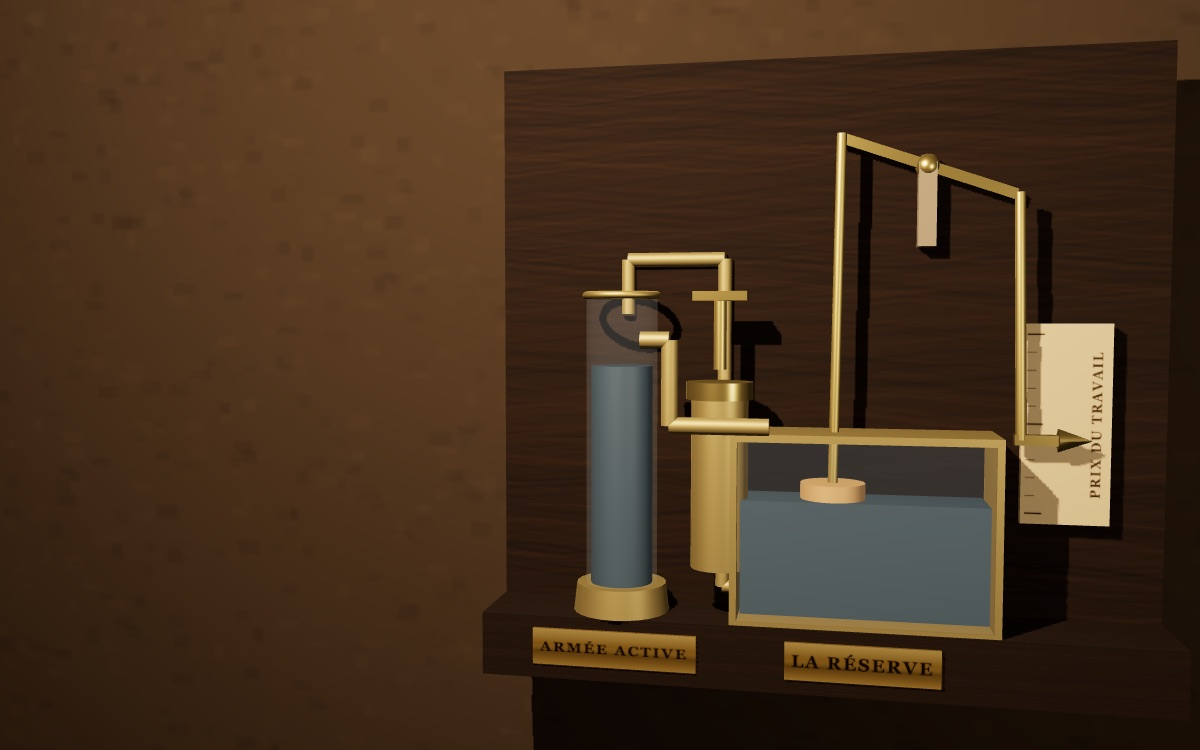
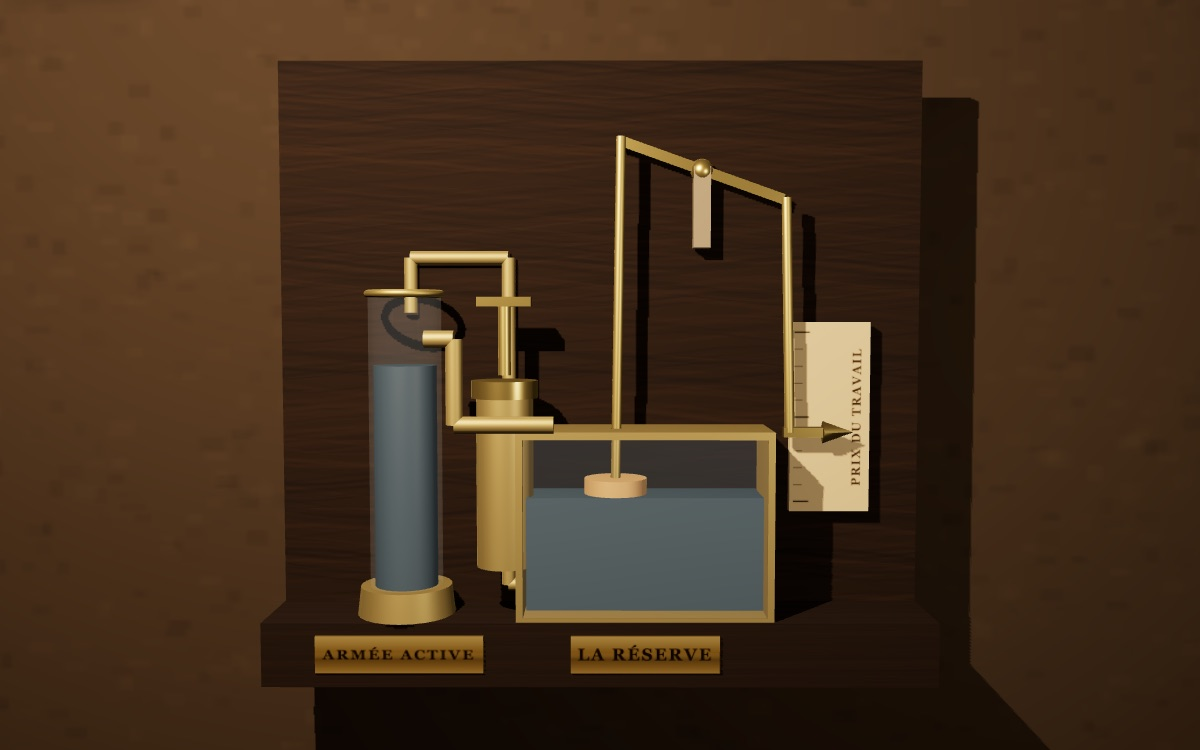
Glossaire : armee-de-reserve réécrite selon la charte, direction artistique « la file et la route »

diff --git a/glossaire/mondes/armee-de-reserve/essai.html b/glossaire/mondes/armee-de-reserve/essai.html
@@ -1,47 +1,87 @@
-<!-- L'ESSAI — le corps de /glossaire/armee-de-reserve.
-     data-s="7" = Septième section de Roy (ch. XXIII–XXV), qui contient le
-     chapitre XXV, « La loi générale de l'accumulation capitaliste ». -->
+<!-- L'ESSAI : le corps de /glossaire/armee-de-reserve.
+     Fragment HTML, assemblé par tools/gen-seo.mjs dans le gabarit des pages
+     de notion. Réécrit en octobre 2026 selon glossaire/mondes/CHARTE.md.
+     data-s="7" = septième section de Roy (ch. XXIII à XXV), qui contient le
+     chapitre XXV, « Loi générale de l'accumulation capitaliste ». Chaque
+     data-q est une phrase RELEVÉE dans le texte que la liseuse sert,
+     apostrophe typographique comprise : ne rien « corriger ». -->
 
 <section class="nt-sec" data-etape="fait" id="fait">
-<h2>Une population qu'on croit de trop</h2>
-<p>Le chômage se présente d'ordinaire sous la forme d'un écart entre deux grandeurs supposées indépendantes&nbsp;: d'un côté un nombre d'hommes, de l'autre une quantité de besogne, et l'on explique le premier par le second ou le second par le premier. Ou bien les bras sont trop nombreux, et c'est la lecture malthusienne, qui rapporte la misère à la fécondité&nbsp;; ou bien la conjoncture est mauvaise, et l'écart n'est qu'un accident du marché qui se résorbera de lui-même. Les deux lectures diffèrent sur presque tout, mais elles s'accordent sur un point décisif&nbsp;: la population ouvrière disponible est une donnée que l'accumulation rencontre.</p>
-<p>C'est cette prémisse commune que le chapitre&nbsp;XXV renverse, et il faut mesurer la portée du renversement avant d'en suivre la démonstration. Si la population disponible n'est pas une donnée mais un produit, alors le chômage cesse d'être une défaillance du mécanisme pour en devenir une pièce&nbsp;; et l'on ne peut plus le traiter comme un dysfonctionnement à corriger sans toucher à ce qui le produit. <q data-s="7" data-q="la classe salariée produit donc elle-même les instruments de sa mise en retraite ou de sa métamorphose en surpopulation relative">la classe salariée produit donc elle-même les instruments de sa mise en retraite ou de sa métamorphose en surpopulation relative</q>, écrit Marx&nbsp;: ce sont les mêmes hommes, et le même travail, qui fabriquent le capital dont la croissance les rend superflus.</p>
-<p>Le nom que reçoit cette population — <i>armée industrielle de réserve</i> — dit déjà l'essentiel. Une réserve n'est pas un excédent perdu&nbsp;: c'est un stock tenu disponible en vue d'un emploi futur, et qui remplit une fonction du seul fait d'exister.</p>
+<h2>Le chômage vient-il d'un excès de bras&nbsp;?</h2>
+<p class="nt-lead">Pour Marx, la population ouvrière disponible est un produit de l'accumulation du capital. Les ouvriers, en faisant grandir le capital, fabriquent eux-mêmes les conditions qui en rendent une partie superflue.</p>
+<p>On explique d'ordinaire le chômage par un écart entre deux grandeurs indépendantes&nbsp;: un nombre d'hommes d'un côté, une quantité de besogne de l'autre. Les uns disent que les hommes sont trop nombreux&nbsp;; c'est la lecture de Malthus, qui rapporte la misère à la fécondité des pauvres. Les autres disent que la conjoncture est mauvaise et que l'écart se résorbera de lui-même. Ces deux explications divergent sur presque tout. Elles partagent pourtant une idée&nbsp;: la population disponible serait une donnée que le capital trouve devant lui.</p>
+<p>Le chapitre&nbsp;XXV du <i>Capital</i> retourne cette idée. Il montre que le capital, en grandissant, se passe d'une part croissante des travailleurs qu'il occupait, et que ce sont ces travailleurs mêmes qui l'ont fait grandir. Marx le dit d'une phrase&nbsp;: <q data-s="7" data-q="la classe salariée produit donc elle-même les instruments de sa mise en retraite ou de sa métamorphose en surpopulation relative">la classe salariée produit donc elle-même les instruments de sa mise en retraite ou de sa métamorphose en surpopulation relative</q>. Le chômage devient alors une pièce du mécanisme. On ne peut plus le traiter comme une panne à réparer sans toucher à ce qui le produit.</p>
+<p>Le nom que Marx donne à cette population, l'<i>armée industrielle de réserve</i>, est choisi avec soin. Une réserve est un stock tenu disponible pour un emploi futur. Elle sert avant même d'être employée, du seul fait qu'elle est là.</p>
 </section>
 
 <section class="nt-sec" data-etape="ou" id="ou">
-<h2>Où Marx l'établit, et pourquoi si tard</h2>
-<p>La notion apparaît au chapitre&nbsp;XXV, dans sa troisième section, tout près de la fin du Livre&nbsp;I. Ce retard n'est pas un effet de composition&nbsp;: il est exigé par la démonstration, et l'ordre de l'exposé est ici une partie de l'argument. Pour établir que l'accumulation produit sa propre surpopulation, il faut disposer de deux acquis que les sections précédentes ont seules pu fournir&nbsp;: la distinction du capital constant et du capital variable, sans laquelle on ne peut pas dire quelle part du capital s'échange contre du travail vivant&nbsp;; et la démonstration, faite au chapitre du machinisme, que le développement de la production capitaliste élève continûment la part des moyens de production sur celle des bras.</p>
-<p>Le chapitre procède donc en trois temps, et chacun corrige le précédent. Il examine d'abord l'accumulation à composition constante&nbsp;: dans cette hypothèse, la demande de travail croît avec le capital, les salaires peuvent monter, et rien de fâcheux ne se produit — sinon que la hausse s'arrête d'elle-même dès qu'elle menace l'accumulation, ce qui suffit à établir que le salaire est une variable dépendante et non le prix d'un rapport de force libre. Il montre ensuite que cette hypothèse est irréelle, la composition du capital s'élevant à mesure qu'il grossit. Il en tire enfin la surpopulation relative.</p>
-<p>La proposition sur laquelle tout repose est d'une simplicité arithmétique, et Marx prend soin de l'énoncer avant d'en tirer quoi que ce soit&nbsp;: <q data-s="7" data-q="La demande de travail absolue qu’occasionne un capital est en raison non de sa grandeur absolue, mais de celle de sa partie variable, qui seule s’échange contre la force ouvrière">la demande de travail absolue qu'occasionne un capital est en raison non de sa grandeur absolue, mais de celle de sa partie variable, qui seule s'échange contre la force ouvrière</q>. Un capital peut donc doubler sans que la demande de bras double&nbsp;; il peut même doubler pendant qu'elle recule.</p>
+<h2>Pourquoi Marx n'en parle-t-il qu'à la fin du Livre&nbsp;I&nbsp;?</h2>
+<p class="nt-lead">Parce que la démonstration a besoin de deux résultats établis plus haut&nbsp;: la distinction du capital constant et du capital variable, et la hausse continue de la part des machines dans le capital.</p>
+<p>La notion apparaît dans la troisième partie du chapitre&nbsp;XXV, tout près de la fin du livre. Pour dire quelle part d'un capital s'échange contre du travail vivant, il faut avoir distingué le capital constant, qui achète les machines et les matières, du capital variable, qui achète la force de travail et paie les salaires. Pour dire que cette part diminue, il faut avoir montré, avec le machinisme, que la production capitaliste emploie de plus en plus de moyens de production par ouvrier. Marx appelle ce rapport la composition du capital.</p>
+<p>Le chapitre avance en trois temps. Il suppose d'abord que la composition ne change pas&nbsp;: la demande de travail croît alors avec le capital, et les salaires peuvent monter. Marx ajoute que cette hausse s'arrête d'elle-même dès qu'elle gêne l'accumulation. Il montre ensuite que l'hypothèse est irréelle, puisque la composition s'élève à mesure que le capital grossit. Il en tire enfin la surpopulation relative.</p>
+<p>Toute la suite repose sur une proposition simple, que Marx énonce en tête de la troisième partie&nbsp;:</p>
+<blockquote data-s="7" data-q="La demande de travail absolue qu’occasionne un capital est en raison non de sa grandeur absolue, mais de celle de sa partie variable, qui seule s’échange contre la force ouvrière"><p>La demande de travail absolue qu’occasionne un capital est en raison non de sa grandeur absolue, mais de celle de sa partie variable, qui seule s’échange contre la force ouvrière.</p></blockquote>
+<p>Pour l'emploi, ce qui compte est la part du capital qui paie des salaires. Un capital peut donc doubler sans que la demande de bras double. Il peut même doubler pendant qu'elle recule.</p>
 </section>
 
 <section class="nt-sec" data-etape="distinction" id="distinction">
-<h2>La distinction qui fait le concept&nbsp;: absolu et relatif</h2>
-<p>Tout le chapitre tient dans un écart entre deux mouvements qu'on confond d'ordinaire. Le capital variable — la part qui achète de la force de travail — <q data-s="7" data-q="Il augmente avec le capital social dont il fait partie, mais il augmente en proportion décroissante">augmente avec le capital social dont il fait partie, mais il augmente en proportion décroissante</q>. En masse, il grandit&nbsp;; en proportion, il diminue. Il s'ensuit que le nombre des ouvriers employés peut croître d'une année sur l'autre pendant que la fraction du travail social absorbée par le capital, elle, décroît — et c'est précisément la situation où une prospérité manifeste s'accompagne d'un chômage qui ne cède pas.</p>
-<p>De là le mot <i>relative</i>, qu'il faut prendre à la lettre sous peine de manquer le concept. La surpopulation n'est pas relative parce qu'elle serait modeste ou passagère&nbsp;; elle l'est parce qu'elle n'existe que rapportée aux besoins de valorisation d'un capital de telle composition. Deux cent mille hommes ne sont pas trop nombreux en eux-mêmes, ni au regard des besoins à satisfaire, ni au regard des terres à cultiver&nbsp;: ils le sont pour un capital qui, dans son état technique présent, n'a pas de quoi les mettre en valeur avec profit. Changez la composition, et les mêmes hommes cessent d'être en trop sans qu'aucun d'eux ait bougé.</p>
-<p>Une seconde distinction se pose alors sur la première, et c'est elle qui donne sa figure au concept&nbsp;: la classe ouvrière ne se divise pas entre ceux qui travaillent et ceux qui n'existent pas pour le capital, mais entre deux parties d'une même armée. Ce qui varie d'un moment à l'autre du cycle, c'est <q data-s="7" data-q="la proportion différente suivant laquelle la classe ouvrière se décompose en armée active et en armée de réserve">la proportion différente suivant laquelle la classe ouvrière se décompose en armée active et en armée de réserve</q>. Le total ne dit rien&nbsp;; c'est le partage qui dit tout.</p>
+<h2>En quel sens la surpopulation est-elle relative&nbsp;?</h2>
+<p class="nt-lead">Elle n'existe que par rapport aux besoins de valorisation d'un capital donné. Les mêmes hommes sont en trop pour un capital qui emploie beaucoup de machines, et ne le seraient pas pour un autre.</p>
+<p>Le capital variable, c'est-à-dire la part qui achète la force de travail, <q data-s="7" data-q="Il augmente avec le capital social dont il fait partie, mais il augmente en proportion décroissante">augmente avec le capital social dont il fait partie, mais il augmente en proportion décroissante</q>. En masse il grandit, en proportion il diminue. Le nombre des ouvriers employés peut donc croître d'une année sur l'autre pendant que la fraction du travail social absorbée par le capital recule. On comprend ainsi qu'une prospérité visible aille de pair avec un chômage qui ne cède pas.</p>
+
+<div class="nt-ex">
+<p class="nt-ex-t">L'exemple de Marx</p>
+<p>Un capitaliste avance mille francs, dont deux cinquièmes, soit quatre cents francs, en salaires. Son capital double et passe à deux mille francs. Mais il a acheté des machines plus puissantes, et la part des salaires tombe à un cinquième. Un cinquième de deux mille francs, cela fait encore quatre cents francs. Le capital a doublé, le fonds des salaires n'a pas bougé, et l'entreprise n'embauche personne.</p>
+<p>Marx pousse le calcul plus loin. Si le rapport entre capital constant et capital variable passe de 1 pour 1 à 2, 3, 5 puis 6 pour 1, la part des salaires tombe à un tiers, un quart, un sixième, un septième du capital. Pour que l'emploi augmente malgré cela, il faut que le capital croisse plus vite que cette part ne décroît. Et la croissance même du capital apporte de nouvelles machines, qui font encore baisser la part des salaires.</p>
+</div>
+
+<p>De là le mot <i>relative</i>. Marx l'explique lui-même&nbsp;: la surpopulation provient de l'accroissement accéléré du capital, qui permet à celui-ci de se passer d'une partie de ses ouvriers. <q data-s="7" data-q="Comme cette surpopulation n’existe que par rapport aux besoins momentanés de l’exploitation capitaliste">Comme cette surpopulation n’existe que par rapport aux besoins momentanés de l’exploitation capitaliste</q>, elle peut grossir et se résorber brusquement. Cent mille hommes sont de trop pour un capital qui, dans son état technique du moment, ne peut pas les mettre en valeur avec profit.</p>
+<p>Une seconde distinction s'ajoute à la première. La classe ouvrière forme une seule armée, divisée en deux corps&nbsp;: ceux qui travaillent et ceux qui attendent. Ce qui varie au cours du temps, c'est <q data-s="7" data-q="la proportion différente suivant laquelle la classe ouvrière se décompose en armée active et en armée de réserve">la proportion différente suivant laquelle la classe ouvrière se décompose en armée active et en armée de réserve</q>. Le nombre total des ouvriers dit peu de chose&nbsp;; c'est le partage entre les deux corps qui décide du sort des salariés.</p>
 </section>
 
 <section class="nt-sec" data-etape="mecanisme" id="mecanisme">
-<h2>Le mécanisme&nbsp;: le levier, et la pression</h2>
-<p>Une fois produite, la surpopulation cesse d'être un résultat pour devenir une condition. Elle rend au capital deux services distincts qu'il importe de ne pas confondre, car le premier est technique et le second disciplinaire.</p>
-<p>Le premier est celui d'un réservoir. Aucune branche ne peut prendre son essor si elle doit attendre que naissent et grandissent les hommes dont elle a besoin&nbsp;; il lui faut les trouver disponibles à l'instant où elle les demande. La réserve les fournit, et Marx souligne que le capital en dispose sans en avoir payé l'entretien&nbsp;: elle <q data-s="7" data-q="Elle forme une armée de réserve industrielle qui appartient au capital d’une manière aussi absolue que s’il l’avait élevée et disciplinée à ses propres frais">appartient au capital d'une manière aussi absolue que s'il l'avait élevée et disciplinée à ses propres frais</q>. C'est en ce sens qu'elle est le levier de l'accumulation&nbsp;: sans elle, les expansions soudaines de la production seraient impossibles.</p>
-<p>Le second service est d'un tout autre ordre, et c'est lui qui touche au salaire. La réserve pèse sur l'armée active par sa seule présence, en fixant l'intensité de la concurrence que les ouvriers se font entre eux&nbsp;: Marx observe que les travailleurs commencent à s'organiser précisément le jour où ils découvrent que cette intensité <q data-s="7" data-q="dépend entièrement de la pression exercée par les surnuméraires">dépend entièrement de la pression exercée par les surnuméraires</q>. Le mécanisme se boucle alors sur lui-même, et c'est sa clôture qui en fait un concept et non une observation&nbsp;: l'excès de travail imposé à la partie occupée grossit la partie désœuvrée, dont l'existence permet en retour d'imposer cet excès.</p>
-<p>La conséquence théorique est considérable, et Marx la formule contre toute l'économie politique de son temps. L'offre et la demande de travail ne sont pas réglées par le mouvement de la population, mais par celui du capital, dont les phases commandent le partage entre les deux armées&nbsp;: <q data-s="7" data-q="ses mouvements d’expansion et de contraction alternatifs correspondant à leur tour aux vicissitudes du cycle industriel">ses mouvements d'expansion et de contraction alternatifs</q> répondent aux vicissitudes du cycle industriel. Le salaire n'est donc pas la variable qui gouverne&nbsp;; il est celle qui enregistre.</p>
+<h2>À quoi la réserve sert-elle au capital&nbsp;?</h2>
+<p class="nt-lead">Elle lui rend deux services. Elle fournit des bras dès que la production s'étend brusquement, et sa seule présence pèse sur ceux qui travaillent.</p>
+<p>Le premier service est celui d'un réservoir. Une branche d'industrie qui veut s'étendre ne peut pas attendre que naissent et grandissent les hommes dont elle aura besoin. Il les lui faut tout de suite, et la réserve les fournit, sans que le capital ait rien payé pour les élever&nbsp;:</p>
+<blockquote data-s="7" data-q="Elle forme une armée de réserve industrielle qui appartient au capital d’une manière aussi absolue que s’il l’avait élevée et disciplinée à ses propres frais"><p>Elle forme une armée de réserve industrielle qui appartient au capital d’une manière aussi absolue que s’il l’avait élevée et disciplinée à ses propres frais. Elle fournit à ses besoins de valorisation flottants, et, indépendamment de l’accroissement naturel de la population, la matière humaine toujours exploitable et toujours disponible.</p></blockquote>
+<p>La réserve devient ainsi le levier de l'accumulation. Marx la rattache au cycle de l'industrie moderne, qui revient alors tous les dix ou onze ans&nbsp;: activité moyenne, production à haute pression, crise, stagnation. Les expansions soudaines de ce cycle seraient impossibles sans une masse d'hommes qu'on peut engager et dégager à volonté.</p>
+<p>Le second service touche au salaire. La réserve fixe l'intensité de la concurrence que les ouvriers se font entre eux. L'excès de travail imposé aux uns grossit le nombre des autres, et le nombre des autres permet d'imposer cet excès. Le mécanisme se referme sur lui-même. Dans la demande comme dans l'offre de travail, Marx retrouve le même acteur&nbsp;: <q data-s="7" data-q="Le capital agit des deux côtés à la fois">le capital agit des deux côtés à la fois</q>. Son accumulation augmente la demande de bras et, en fabriquant des surnuméraires, elle en augmente aussi l'offre. <q data-s="7" data-q="Ses dés sont pipés">Ses dés sont pipés.</q></p>
+
+<div class="nt-ex">
+<p class="nt-ex-t">Un exemple que Marx tire des ouvriers eux-mêmes</p>
+<p>Pendant ce que Roy appelle la disette cotonnière, au temps de la guerre civile américaine, les fabriques anglaises ont renvoyé la plupart de leurs ouvriers, et les autres ne travaillent plus que quatre ou six heures par jour. Quelques fabricants de Bolton veulent pourtant imposer des heures supplémentaires à leurs fileurs adultes. Les fileurs répondent par un pamphlet, que Marx cite&nbsp;: on leur demande douze à treize heures quand des centaines d'entre eux restent sans travail.</p>
+<p>Leur conclusion est arithmétique&nbsp;: <q data-s="7" data-q="Si le travail était distribué d’une manière équitable, il y aurait dans ce district assez de besogne pour que chacun en eût sa part">si le travail était distribué d’une manière équitable, il y aurait dans ce district assez de besogne pour que chacun en eût sa part</q>. Ils demandent qu'on raccourcisse la journée de tous tant que dure la crise. Les fileurs ont vu ce que la théorie formule&nbsp;: l'excès de travail des uns et l'oisiveté forcée des autres sont un seul fait.</p>
+</div>
+
+<p>Marx en tire une conséquence contre l'économie politique de son temps. Ce qui règle l'offre et la demande de travail, c'est le mouvement du capital. Les variations des salaires suivent celles de la surpopulation relative, avec <q data-s="7" data-q="ses mouvements d’expansion et de contraction alternatifs correspondant à leur tour aux vicissitudes du cycle industriel">ses mouvements d’expansion et de contraction alternatifs correspondant à leur tour aux vicissitudes du cycle industriel</q>. Le salaire ne fait qu'enregistrer ce partage. Aussi Marx note-t-il que les travailleurs commencent à s'organiser le jour où ils découvrent que la concurrence entre eux <q data-s="7" data-q="dépend entièrement de la pression exercée par les surnuméraires">dépend entièrement de la pression exercée par les surnuméraires</q>. Ce jour-là, <q data-s="7" data-q="ils s’unissent pour organiser l’entente et l’action commune entre les occupés et les non-occupés">ils s’unissent pour organiser l’entente et l’action commune entre les occupés et les non-occupés</q>.</p>
 </section>
 
 <section class="nt-sec" data-etape="formes" id="formes">
-<h2>Ce que le concept ouvre&nbsp;: les formes, et la loi générale</h2>
-<p>Marx ne s'en tient pas à la notion générale&nbsp;: il en distingue trois formes, et cette typologie est ce qui rend le concept utilisable pour décrire une société réelle. La forme <i>flottante</i> est celle des centres industriels, qui attirent et repoussent alternativement les mêmes hommes au gré des commandes. La forme <i>latente</i> est celle des campagnes, où une population que rien n'emploie pleinement reste retenue sur place et ne se révèle qu'au moment où ses canaux de décharge s'ouvrent. La forme <i>stagnante</i> est celle du travail irrégulier, à domicile ou à la journée&nbsp;: elle appartient encore à l'armée active, mais l'irrégularité de ses occupations en fait <q data-s="7" data-q="un réservoir inépuisable de forces disponibles">un réservoir inépuisable de forces disponibles</q>. Au-dessous se dépose enfin le paupérisme officiel, qui n'est pas une catégorie séparée mais le sédiment des trois autres.</p>
-<p>De cette architecture Marx tire l'énoncé qui referme le chapitre, et dont la forme mérite attention&nbsp;: <q data-s="7" data-q="Mais plus la réserve grossit, comparativement à l’armée active du travail, plus grossit aussi la surpopulation consolidée dont la misère est en raison directe du labeur imposé">plus la réserve grossit, comparativement à l'armée active du travail, plus grossit aussi la surpopulation consolidée dont la misère est en raison directe du labeur imposé</q>. Puis, en une phrase&nbsp;: <q data-s="7" data-q="Voilà la loi générale, absolue, de l’accumulation capitaliste">voilà la loi générale, absolue, de l'accumulation capitaliste</q>.</p>
-<p>Le mot <i>absolue</i> a fait couler beaucoup d'encre, et il vaut la peine de dire ce qu'il signifie ici, faute de quoi la formule passe pour une prophétie. Il ne veut pas dire que la loi produira son effet quoi qu'il arrive&nbsp;: la phrase suivante prend soin d'ajouter que l'action de cette loi, comme de toute autre, est modifiée par des circonstances particulières. Il veut dire que la loi ne comporte pas, dans son concept, de contre-tendance qui lui serait interne — à la différence de la baisse tendancielle du taux de profit, où les forces contraires découlent des mêmes causes que la tendance. Ce qui contrarie celle-ci lui vient du dehors&nbsp;: la législation, l'organisation ouvrière, l'émigration, la conquête de nouveaux débouchés. Autant dire que ce qui s'y oppose est historique et politique, non économique.</p>
+<h2>Sous quelles formes la réserve existe-t-elle&nbsp;?</h2>
+<p class="nt-lead">Marx en distingue trois, flottante, latente et stagnante, et place au-dessous le paupérisme. Il en tire la loi générale de l'accumulation capitaliste.</p>
+<p>La forme <i>flottante</i> est celle des centres industriels, qui attirent et repoussent tour à tour les mêmes hommes au gré des commandes. Elle explique une contradiction apparente&nbsp;: au second semestre de 1866, rapporte Marx, il y avait à Londres <q data-s="7" data-q="plus de cent mille ouvriers en chômage forcé">plus de cent mille ouvriers en chômage forcé</q>, pendant que, faute de bras, des machines s'arrêtaient dans les fabriques du Lancashire. La forme <i>latente</i> est celle des campagnes. Dès que le capital s'empare de l'agriculture, il y emploie moins de monde, et une partie des paysans attend l'occasion de partir pour la ville. On ne mesure son étendue qu'au moment où ses canaux de décharge s'ouvrent.</p>
+<div data-planche="route"></div>
+<p>La forme <i>stagnante</i> appartient encore à l'armée active, mais l'irrégularité de ses occupations en fait <q data-s="7" data-q="un réservoir inépuisable de forces disponibles">un réservoir inépuisable de forces disponibles</q>. C'est le travail à la journée ou à domicile, où le temps de travail atteint son maximum et le salaire son minimum. Au-dessous de ces trois formes se dépose le paupérisme&nbsp;: les ouvriers sans emploi, les enfants des pauvres assistés, ceux que l'âge ou l'accident a mis hors d'usage. Marx le définit d'une image militaire&nbsp;: <q data-s="7" data-q="Le paupérisme est l’hôtel des Invalides de l’armée active du travail et le poids mort de sa réserve">le paupérisme est l’hôtel des Invalides de l’armée active du travail et le poids mort de sa réserve</q>.</p>
+<p>De cet ensemble, Marx tire la formule qui termine son analyse&nbsp;:</p>
+<blockquote data-s="7" data-q="Mais plus la réserve grossit, comparativement à l’armée active du travail, plus grossit aussi la surpopulation consolidée dont la misère est en raison directe du labeur imposé"><p>Mais plus la réserve grossit, comparativement à l’armée active du travail, plus grossit aussi la surpopulation consolidée dont la misère est en raison directe du labeur imposé. Plus s’accroît enfin cette couche des Lazare de la classe salariée, plus s’accroît aussi le paupérisme officiel. Voilà la loi générale, absolue, de l’accumulation capitaliste.</p></blockquote>
+<p>Le mot <i>absolue</i> a fait lire cette loi comme une prophétie. La phrase suivante corrige cette lecture&nbsp;: <q data-s="7" data-q="L’action de cette loi, comme de toute autre, est naturellement modifiée par des circonstances particulières">l’action de cette loi, comme de toute autre, est naturellement modifiée par des circonstances particulières</q>. La loi dit la tendance qui naît du mécanisme lui-même. Ce qui la contrarie, à commencer par l'organisation des ouvriers que Marx vient de décrire, agit sur elle sans la supprimer.</p>
 </section>
 
 <section class="nt-sec" data-etape="lectures" id="lectures">
-<h2>Lectures et contresens</h2>
-<p>Le premier contresens est celui-là même que le chapitre est écrit pour dissiper, et il n'a pas cessé de revenir&nbsp;: lire la surpopulation comme un excédent absolu de bouches. Marx y répond par une thèse qui excède de loin la polémique avec Malthus&nbsp;: <q data-s="7" data-q="Voilà la loi de population qui distingue l’époque capitaliste et correspond à son mode de production particulier">voilà la loi de population qui distingue l'époque capitaliste et correspond à son mode de production particulier</q>. Chaque mode de production a la sienne, qui passe avec lui&nbsp;; <q data-s="7" data-q="Une loi de population abstraite et immuable n’existe que pour la plante et l’animal">une loi de population abstraite et immuable n'existe que pour la plante et l'animal</q>. Une population n'est donc jamais trop nombreuse dans l'absolu&nbsp;: elle l'est toujours relativement à un rapport social déterminé.</p>
-<p>Le deuxième contresens est symétrique et vient souvent de lecteurs favorables&nbsp;: on tire du chapitre une thèse de paupérisation absolue, selon laquelle les salaires devraient baisser sans fin, puis l'on tient la loi pour réfutée dès que le niveau de vie s'élève. C'est prêter au texte ce qu'il ne dit pas. Marx examine explicitement le cas de la hausse des salaires et refuse d'y voir une objection&nbsp;: elle prouve seulement, écrit-il, que <q data-s="7" data-q="la chaîne d’or, à laquelle le capitaliste tient le salarié rivé et que celui-ci ne cesse de forger">la chaîne d'or, à laquelle le capitaliste tient le salarié rivé et que celui-ci ne cesse de forger</q>, s'est assez allongée pour laisser un peu de jeu. Ce que la loi énonce n'est pas une trajectoire du salaire réel, mais un rapport&nbsp;: le poids relatif de la partie disponible, et la dépendance où il place la partie occupée.</p>
-<p>Un troisième malentendu porte sur la mesure. On voudrait vérifier la loi sur la courbe du taux de chômage, et l'on conclut de sa stabilité que la réserve aurait disparu. L'objection porterait si la réserve se confondait avec le chômage enregistré&nbsp;; or les trois formes que distingue Marx débordent largement cette catégorie administrative, et la troisième en particulier — le travail irrégulier — appartient à l'armée active tout en fonctionnant comme réserve. Nous nous rangeons ici à la lecture qui tient le concept pour un concept de <i>disponibilité</i> et non de désœuvrement&nbsp;: ce qu'il nomme est la fraction du travail social que le capital peut engager et dégager à son gré, ce qui inclut le temps partiel subi, les contrats courts, et la mise en concurrence d'un marché du travail avec un autre.</p>
-<p>Une telle extension ne va pourtant pas de soi et demande à être argumentée plutôt que supposée&nbsp;: le chapitre&nbsp;XXV décrit un mécanisme dans les limites d'une économie nationale, et rien n'assure a priori que ses proportions se transportent à une échelle où le capital circule plus vite que les hommes. La question reste ouverte, et c'est ainsi qu'il faut la laisser. Ce que le concept établit avec certitude, et qui suffit à en faire l'un des plus solides du livre, est plus étroit et plus ferme&nbsp;: le nombre des hommes disponibles n'est pas la cause dont l'emploi serait l'effet, mais l'effet d'une accumulation dont il devient ensuite la condition.</p>
+<h2>Comment lire la loi, et quels contresens éviter&nbsp;?</h2>
+<p class="nt-lead">La loi porte sur un rapport, celui de la réserve à l'armée active. Trois contresens courants viennent de ce qu'on la lit comme une loi de population, comme une prédiction sur les salaires, ou comme une statistique du chômage.</p>
+<p>Le premier contresens est celui que le chapitre combat. Marx l'écarte en élargissant le débat avec Malthus&nbsp;: <q data-s="7" data-q="Voilà la loi de population qui distingue l’époque capitaliste et correspond à son mode de production particulier">voilà la loi de population qui distingue l’époque capitaliste et correspond à son mode de production particulier</q>. Chaque mode de production a sa loi de population, qui passe avec lui. <q data-s="7" data-q="Une loi de population abstraite et immuable n’existe que pour la plante et l’animal">Une loi de population abstraite et immuable n’existe que pour la plante et l’animal</q>. Une population n'est jamais trop nombreuse en soi&nbsp;; elle l'est toujours par rapport à une organisation déterminée de la production.</p>
+<p>Reste la question de la mesure. On voudrait vérifier la loi sur le taux de chômage enregistré. Or les trois formes que distingue Marx débordent cette catégorie administrative, et la forme stagnante, en particulier, appartient à l'armée active tout en jouant le rôle d'une réserve. Nous suivons la lecture qui tient le concept pour un concept de <i>disponibilité</i>&nbsp;: il désigne la part du travail social que le capital peut engager et dégager à son gré, ce qui inclut le temps partiel subi et les contrats courts. Le chapitre décrit pourtant un mécanisme à l'échelle d'une économie nationale, et rien n'assure d'avance qu'il se transpose tel quel à une échelle où le capital circule plus vite que les hommes.</p>
+<div class="nt-cs">
+<p><span class="nt-cs-k">On lit souvent</span> Le chômage viendrait d'un excès de population&nbsp;: trop de bouches pour trop peu de travail, et la misère serait le prix d'une natalité trop forte.</p>
+<p><span class="nt-cs-k">Ce que dit le texte</span> La surpopulation est relative au capital. Elle naît de ce que la part des salaires diminue dans un capital qui grandit, et elle se forme <q data-s="7" data-q="indépendamment de l’accroissement naturel de la population">indépendamment de l’accroissement naturel de la population</q>.</p>
+</div>
+<div class="nt-cs">
+<p><span class="nt-cs-k">On lit souvent</span> Marx annoncerait une baisse sans fin des salaires, et la loi serait réfutée dès que le niveau de vie des ouvriers s'élève.</p>
+<p><span class="nt-cs-k">Ce que dit le texte</span> Marx examine lui-même la hausse des salaires. Elle prouve seulement que <q data-s="7" data-q="la chaîne d’or, à laquelle le capitaliste tient le salarié rivé et que celui-ci ne cesse de forger">la chaîne d’or, à laquelle le capitaliste tient le salarié rivé et que celui-ci ne cesse de forger</q> s'est allongée. Et quand les salaires agricoles anglais montent un peu, entre 1849 et 1859, les fermiers achètent des machines&nbsp;: <q data-s="7" data-q="l’armée de réserve fut bientôt recrutée au grand complet">l’armée de réserve fut bientôt recrutée au grand complet</q>.</p>
+</div>
+<div class="nt-cs">
+<p><span class="nt-cs-k">On lit souvent</span> L'armée de réserve se confondrait avec les chômeurs recensés, et un taux de chômage stable prouverait qu'elle a disparu.</p>
+<p><span class="nt-cs-k">Ce que dit le texte</span> La forme stagnante travaille, irrégulièrement, et compte pourtant dans la réserve. Ce que Marx nomme est une disponibilité, et sa preuve est le partage entre les deux armées, non un chiffre isolé.</p>
+</div>
 </section>

diff --git a/glossaire/mondes/armee-de-reserve/monde.js b/glossaire/mondes/armee-de-reserve/monde.js
@@ -326,7 +326,13 @@ window.LM_MONDE = function (canvas) {
     var dist = camera.position.distanceTo(camA);
     var fwd = new THREE.Vector3().subVectors(camA, camera.position).normalize();
     var right = new THREE.Vector3().crossVectors(fwd, V3(0, 1, 0)).normalize();
-    aim.copy(camA).addScaledVector(right, -Math.min(0.21 * dist, 0.70));
+    /* Octobre 2026 : la scène est une figure 16/10 en bas de page, que rien
+       ne recouvre. Le décalage à gauche (qui laissait la moitié gauche à la
+       colonne de texte de l'architecture « plein ») la décentrait : il ne
+       joue plus que sur un canevas d'au moins 1100 px qui ne serait pas une
+       figure, c'est-à-dire jamais sur cette page. */
+    var large = canvas.clientWidth >= 1100 && !(canvas.closest && canvas.closest('.nt-fig'));
+    aim.copy(camA).addScaledVector(right, large ? -Math.min(0.21 * dist, 0.70) : 0);
     camera.lookAt(aim);
     render();
   }
